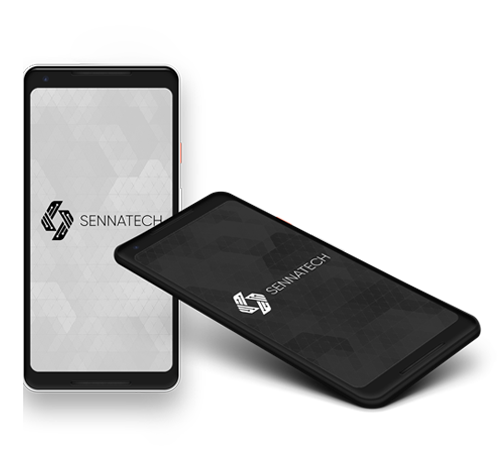
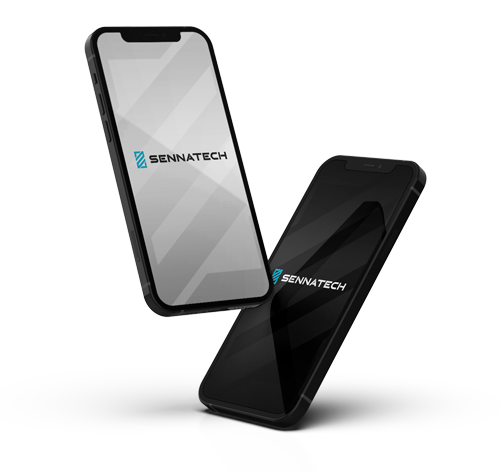
Novos Icones - Sennatech v2

diff --git a/enviadot.html b/enviadot.html
@@ -344,7 +344,7 @@
   <a href="https://www.linkedin.com/company/sennatech-consultoria/" target="_blank"><i class="fa fa-linkedin"></i></a> </li>
 <div class="one_half animate" data-anim-type="fadeInUp">
   <ul class="faddress">
-    <li><img src="img-langdev/Sennatech_pngFIXED_allBLACK_ScaledDown.png" alt="" style="margin-top:-29px"></li>
+    <li><img src="img-langdev/SENNATECH_v2.png" alt="" style="margin-top:-29px"></li>
     <li style="color: #1e2a35; margin: 10px 0 0 0; "><strong>Escritório Comercial </strong><br>
       <span style="font-size: 12px;"> Av. Pacaembu, 1976<br>
       Pacaembu, São Paulo - SP</span></li>

diff --git a/errot.html b/errot.html
@@ -349,7 +349,7 @@
   <a href="https://www.linkedin.com/company/sennatech-consultoria/" target="_blank"><i class="fa fa-linkedin"></i></a> </li>
 <div class="one_half animate" data-anim-type="fadeInUp">
   <ul class="faddress">
-    <li><img src="img-langdev/Sennatech_pngFIXED_allBLACK_ScaledDown.png" alt="" style="margin-top:-29px"></li>
+    <li><img src="img-langdev/SENNATECH_v2.png" alt="" style="margin-top:-29px"></li>
     <li style="color: #1e2a35; margin: 10px 0 0 0; "><strong>Escritório Comercial </strong><br>
       <span style="font-size: 12px;"> Av. Pacaembu, 1976<br>
       Pacaembu, São Paulo - SP</span></li>

diff --git a/index.html b/index.html
@@ -542,7 +542,7 @@
                 </div>
                 <div class="one_half animate" data-anim-type="fadeInUp">
                     <ul class="faddress">
-                        <li><img src="img-langdev/Sennatech_pngFIXED_allBLACK_ScaledDown.png" alt="" style="margin-top:-29px"></li>
+                        <li><img src="img-langdev/SENNATECH_v2.png" alt="" style="margin-top:-29px"></li>
                         <li style="padding-bottom:0;">
                             <i class="fa fa-phone" style="color:#1e2a35;"></i>&nbsp;
                             <strong style="color:#1e2a35;"> (11)2386-9707</strong>

diff --git a/enviado.html b/enviado.html
@@ -342,7 +342,7 @@
           <a href="https://www.linkedin.com/company/sennatech-consultoria/" target="_blank"><i class="fa fa-linkedin"></i></a> </li>
           <div class="one_half animate" data-anim-type="fadeInUp">
         <ul class="faddress">
-            <li><img src="img-langdev/Sennatech_pngFIXED_allBLACK_ScaledDown.png" alt="" style="margin-top:-29px"></li>
+            <li><img src="img-langdev/SENNATECH_v2.png" alt="" style="margin-top:-29px"></li>
 
             <li style="padding-bottom:0;">
                 <i class="fa fa-phone" style="color:#1e2a35;"></i>&nbsp; 

diff --git a/erro.html b/erro.html
@@ -362,7 +362,7 @@
           <a href="https://www.linkedin.com/company/sennatech-consultoria/" target="_blank"><i class="fa fa-linkedin"></i></a> </li>
           <div class="one_half animate" data-anim-type="fadeInUp">
         <ul class="faddress">
-            <li><img src="img-langdev/Sennatech_pngFIXED_allBLACK_ScaledDown.png" alt="" style="margin-top:-29px"></li>
+            <li><img src="img-langdev/SENNATECH_v2.png" alt="" style="margin-top:-29px"></li>
 
             <li style="padding-bottom:0;">
                 <i class="fa fa-phone" style="color:#1e2a35;"></i>&nbsp; 

diff --git a/css/responsive-leyouts.css b/css/responsive-leyouts.css
@@ -621,7 +621,7 @@ display: block;
 
 #trueHeader #logo{
 	text-align: center;
-	background:url(../img-langdev/Sennatech_pngFIXED_ScaledDown.png) no-repeat center bottom;
+	background:url(../img-langdev/SENNATECH_v2.png) no-repeat center bottom;
 }
 #trueHeader .logo {
 	width: 100%;
@@ -1277,7 +1277,7 @@ ul.adsbanner-list {
 
 #trueHeader #logo{
 	text-align: center;
-	background:url(../img-langdev/Sennatech_pngFIXED_ScaledDown.png) no-repeat center bottom;
+	background:url(../img-langdev/SENNATECH_v2.png) no-repeat center bottom;
 }
 #trueHeader .logo {
 	width: 100%;

diff --git a/s1.html b/s1.html
@@ -355,7 +355,7 @@
         
         <div class="one_half animate" data-anim-type="fadeInUp">
         <ul class="faddress">
-            <li><img src="img-langdev/Sennatech_pngFIXED_allBLACK_ScaledDown.png" alt="" style="margin-top:-29px"></li>
+            <li><img src="img-langdev/SENNATECH_v2.png" alt="" style="margin-top:-29px"></li>
 
             <!--li style="color: #1e2a35; margin: 10px 0 0 0; ">
                 <strong>Escritório Comercial </strong>

diff --git a/contato.html b/contato.html
@@ -349,7 +349,7 @@
       </div>
        <div class="one_half animate" data-anim-type="fadeInUp">
         <ul class="faddress">
-            <li><img src="img-langdev/Sennatech_pngFIXED_allBLACK_ScaledDown.png" alt="" style="margin-top:-29px"></li>
+            <li><img src="img-langdev/SENNATECH_v2.png" alt="" style="margin-top:-29px"></li>
 
             <li style="padding-bottom:0;">
                 <i class="fa fa-phone" style="color:#1e2a35;"></i>&nbsp; 

diff --git a/p1.html b/p1.html
@@ -390,7 +390,7 @@
 
                 <div class="one_half animate" data-anim-type="fadeInUp">
                     <ul class="faddress">
-                        <li><img src="img-langdev/Sennatech_pngFIXED_allBLACK_ScaledDown.png" alt=""
+                        <li><img src="img-langdev/SENNATECH_v2.png" alt=""
                                 style="margin-top:-29px"></li>
 
                         <!--li style="color: #1e2a35; margin: 10px 0 0 0; ">

diff --git a/p2.html b/p2.html
@@ -391,7 +391,7 @@
 
                 <div class="one_half animate" data-anim-type="fadeInUp">
                     <ul class="faddress">
-                        <li><img src="img-langdev/Sennatech_pngFIXED_allBLACK_ScaledDown.png" alt=""
+                        <li><img src="img-langdev/SENNATECH_v2.png" alt=""
                                 style="margin-top:-29px"></li>
 
                         <!--li style="color: #1e2a35; margin: 10px 0 0 0; ">

diff --git a/p3.html b/p3.html
@@ -396,7 +396,7 @@
 
                 <div class="one_half animate" data-anim-type="fadeInUp">
                     <ul class="faddress">
-                        <li><img src="img-langdev/Sennatech_pngFIXED_allBLACK_ScaledDown.png" alt=""
+                        <li><img src="img-langdev/SENNATECH_v2.png" alt=""
                                 style="margin-top:-29px"></li>
 
                         <!--li style="color: #1e2a35; margin: 10px 0 0 0; ">

diff --git a/p4.html b/p4.html
@@ -391,7 +391,7 @@
 
                 <div class="one_half animate" data-anim-type="fadeInUp">
                     <ul class="faddress">
-                        <li><img src="img-langdev/Sennatech_pngFIXED_allBLACK_ScaledDown.png" alt=""
+                        <li><img src="img-langdev/SENNATECH_v2.png" alt=""
                                 style="margin-top:-29px"></li>
 
                         <!--li style="color: #1e2a35; margin: 10px 0 0 0; ">
